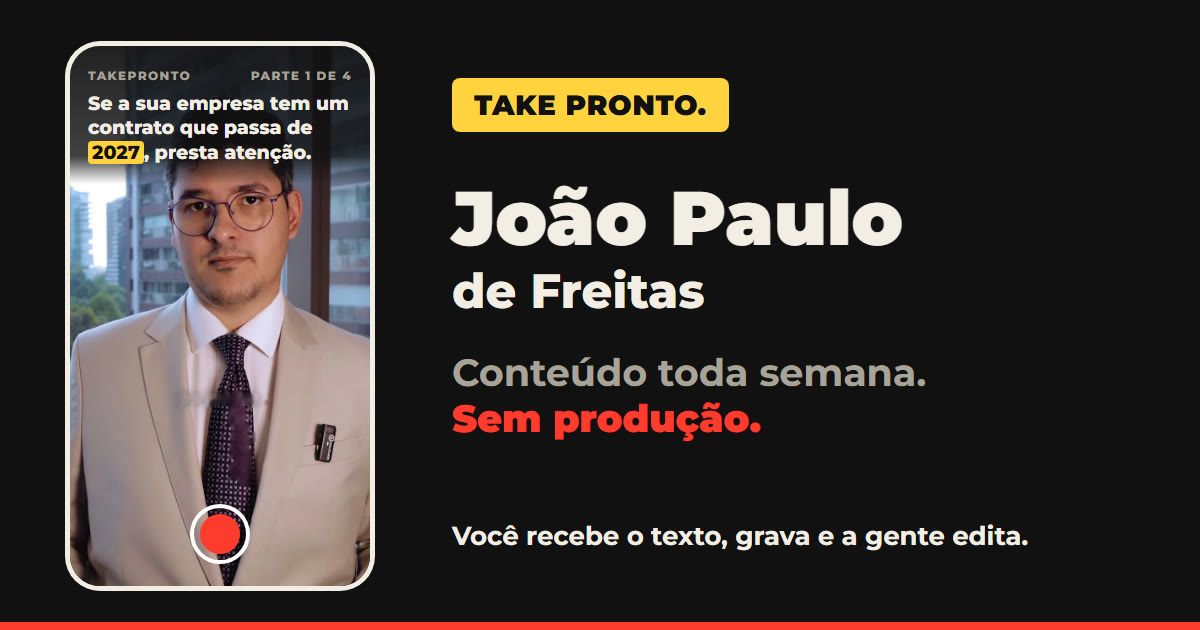
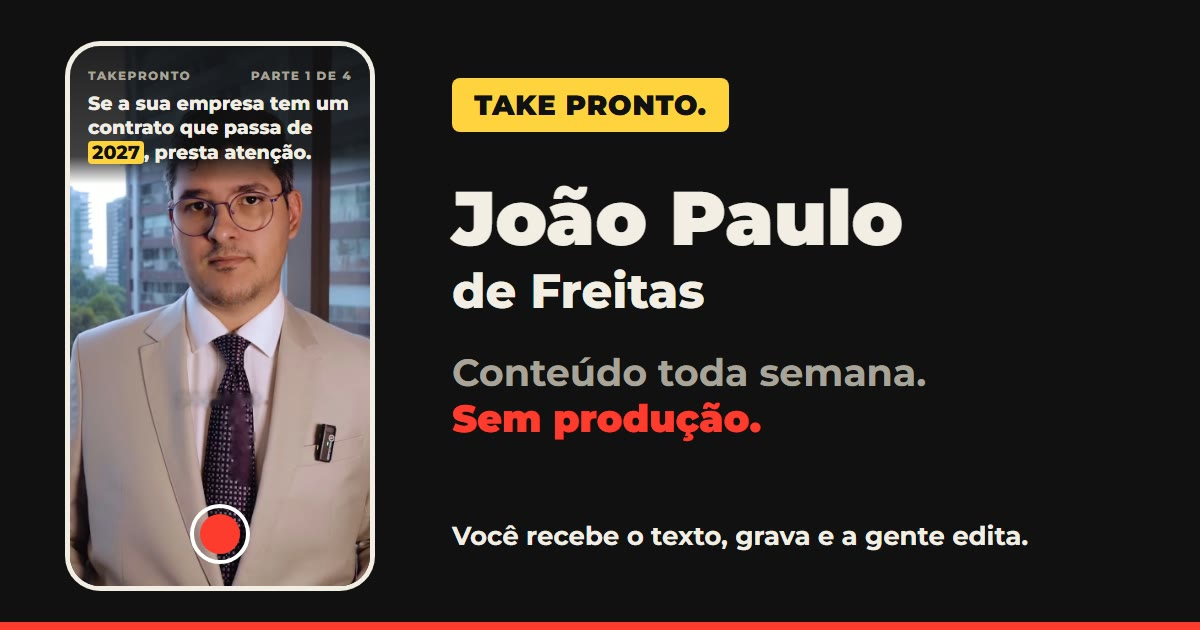
João Paulo de Freitas: cartão do WhatsApp em JPEG 4:2:0 (v=2)

diff --git a/joao-paulo-de-freitas/index.html b/joao-paulo-de-freitas/index.html
@@ -12,15 +12,15 @@
 <meta property="og:title" content="João Paulo de Freitas · Conteúdo toda semana, sem produção">
 <meta property="og:description" content="Você recebe o texto, grava pelo celular e a gente edita.">
 <meta property="og:url" content="https://takepronto.com.br/joao-paulo-de-freitas/">
-<meta property="og:image" content="https://takepronto.com.br/midia/joao/cartao-joao.jpg?v=1">
-<meta property="og:image:secure_url" content="https://takepronto.com.br/midia/joao/cartao-joao.jpg?v=1">
+<meta property="og:image" content="https://takepronto.com.br/midia/joao/cartao-joao.jpg?v=2">
+<meta property="og:image:secure_url" content="https://takepronto.com.br/midia/joao/cartao-joao.jpg?v=2">
 <meta property="og:image:type" content="image/jpeg">
 <meta property="og:image:width" content="1200">
 <meta property="og:image:height" content="630">
 <meta property="og:image:alt" content="Página da TakePronto para o João Paulo de Freitas">
 <meta property="og:locale" content="pt_BR">
 <meta name="twitter:card" content="summary_large_image">
-<meta name="twitter:image" content="https://takepronto.com.br/midia/joao/cartao-joao.jpg?v=1">
+<meta name="twitter:image" content="https://takepronto.com.br/midia/joao/cartao-joao.jpg?v=2">
 <link rel="preconnect" href="https://fonts.googleapis.com"><link rel="preconnect" href="https://fonts.gstatic.com" crossorigin>
 <link href="https://fonts.googleapis.com/css2?family=Archivo+Black&family=Space+Grotesk:wght@400;500;700&display=swap" rel="stylesheet">
 <style>
